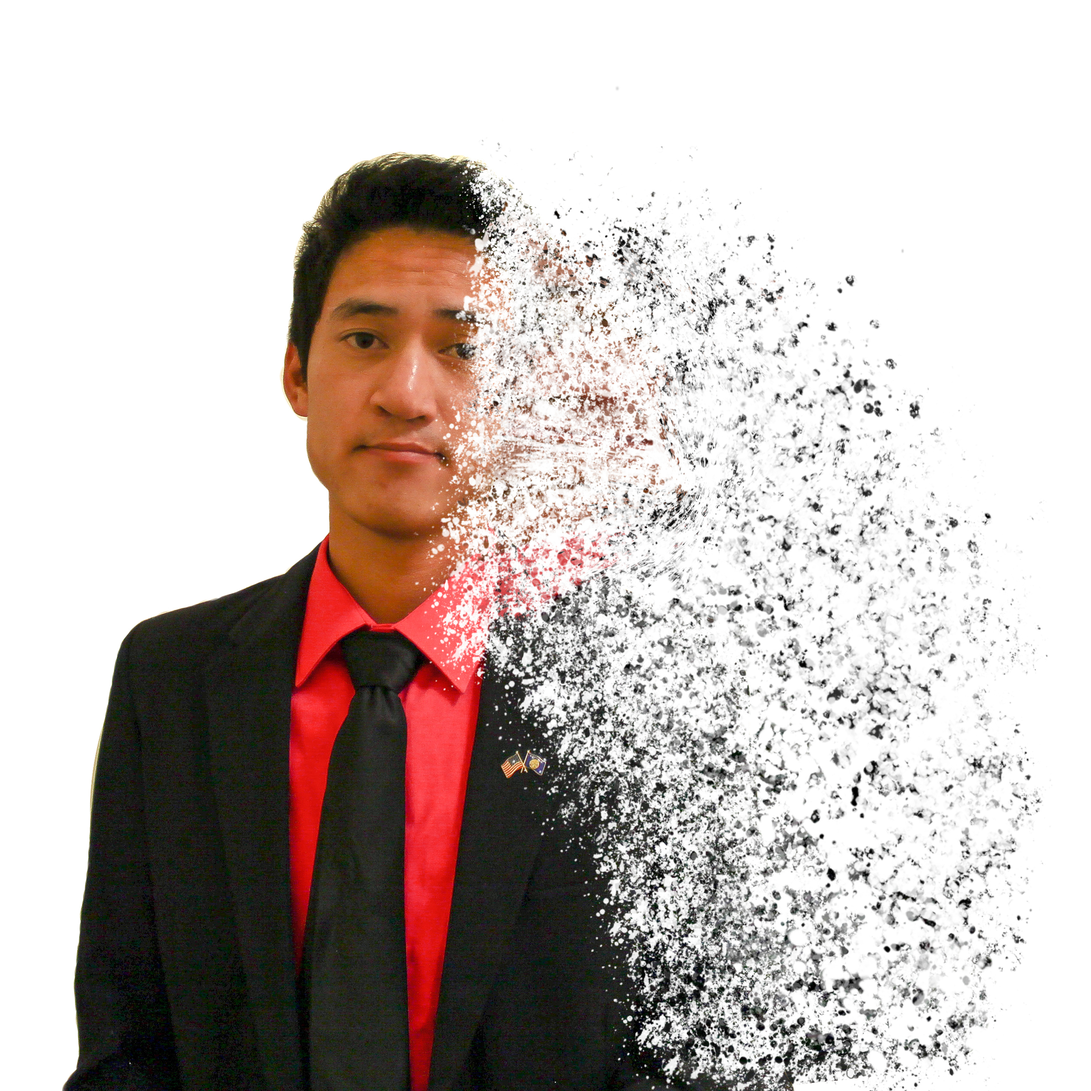
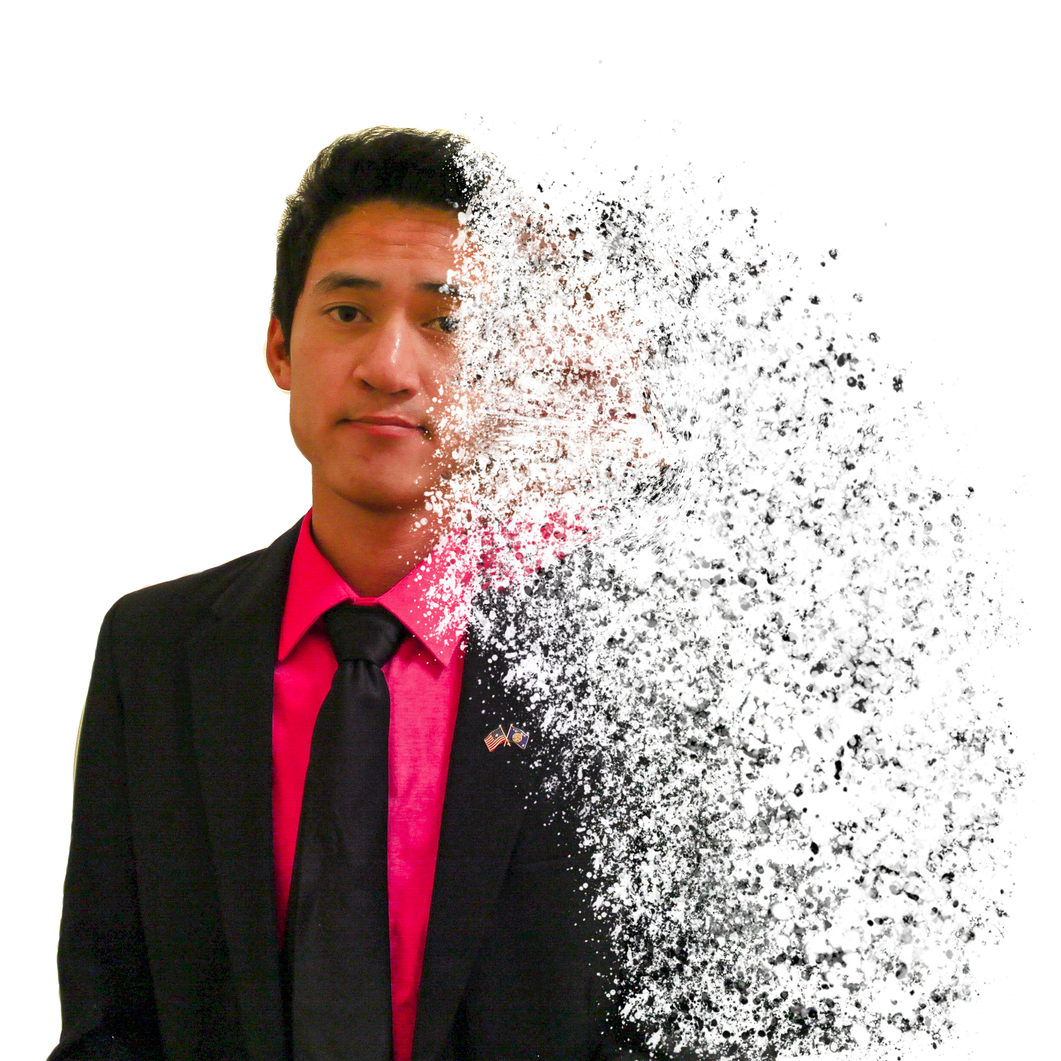
Added javascript scroll. Added new profile pic.

Changed region(s): [[0.0311, 0.0934, 0.9648, 1.0]]

diff --git a/index.html b/index.html
@@ -13,13 +13,13 @@
 
   <!-- Custom CSS -->
 
-  <link rel="stylesheet" type="text/css" href="./css/style.min.css">
-  <!-- <link rel="stylesheet" type="text/css" href="./css/Header.css">
+  <!-- <link rel="stylesheet" type="text/css" href="./css/style.min.css"> -->
+  <link rel="stylesheet" type="text/css" href="./css/Header.css">
   <link rel="stylesheet" type="text/css" href="./css/Aboutme.css">
   <link rel="stylesheet" type="text/css" href="./css/projects.css">
   <link rel="stylesheet" type="text/css" href="./css/resume.css">
   <link rel="stylesheet" type="text/css" href="./css/contactme.css">
-  <link rel="stylesheet" type="text/css" href="./css/footer.css"> -->
+  <link rel="stylesheet" type="text/css" href="./css/footer.css">
 
   <!-- Fontawesome -->
   <link rel="stylesheet" href="./libraries/fontAwesome/css/all.css">
@@ -34,7 +34,11 @@
           <h1 class="title">Hello World!</h1>
           <p class="subtitle">I am a web developer, photographer, and a lifelong student</p>
         </div>
-        <div class="arrow" style="z-index:10;"></div>
+        <!-- <div style="position: absolute; left: 50%; bottom: 5%"> -->
+          <!-- <span id="learnMore">Learn More</span> -->
+          <a href="#aboutMe" class="arrow" style="z-index:10;"></a>
+        <!-- </div> -->
+
       </div>
     </header>
 
@@ -50,7 +54,7 @@
               <hr class="hr-short">
               <p style="text-indent: 2.5rem;">Detail-oriented Full-Stack Developer with broad experiences. As a recent high-school graduate, I have become a proficient developer after attending a Full-Stack Web Development Coding Bootcamp at Northwestern in Evanston, Illinois (2017-2018). I am currently attending University of Idaho to further my knowledge in computer science/software engineering.
               </p>
-              <p style="margin-bottom: -1px;">"Don’t worry if it doesn’t work right. If everything did, you’d be out of a job." <p class="line-height: 1px;"> - Software engineering mother</p></p>
+              <p style="margin-bottom: -1px;">"Don’t worry if it doesn’t work right. If everything did, you’d be out of a job." <p class="line-height: 1px;"> -Mother's Law of Software Engineering</p></p>
               <hr class="hr-short">
             </div>
           </div>
@@ -60,7 +64,7 @@
     <!-- Project section -->
     <div id="projects-section">
       <p id="portfolio-header" class="reveal">Personal Projects</p>
-      <hr>
+      <hr mb-0>
       <ul class="thumbs">
         <li>
           <a href="#project1" class="thumbnail reveal hvr-curl-top-left" style="background-image: url('./images/thumbnails/mern.jpg')">

diff --git a/Javascript/main.js b/Javascript/main.js
@@ -1,16 +1,14 @@
 $(document).ready(function() {
 
-  // Smooth scrolling using jQuery easing
-  $('a.js-scroll-trigger[href*="#"]:not([href="#"])').click(function() {
-    if (location.pathname.replace(/^\//, '') == this.pathname.replace(/^\//, '') && location.hostname == this.hostname) {
-      var target = $(this.hash);
-      target = target.length ? target : $('[name=' + this.hash.slice(1) + ']');
-      if (target.length) {
-        $('html, body').animate({
-          scrollTop: (target.offset().top - 70)
-        }, 1000, "easeInOutExpo");
-        return false;
-      }
+  $(".arrow").on('click', function(event) {
+    if (this.hash !== "") {
+      event.preventDefault();
+      var hash = this.hash;
+      $('html, body').animate({
+        scrollTop: $(hash).offset().top
+      }, 800, function(){
+        window.location.hash = hash;
+      });
     }
   });
   // Crossfade

diff --git a/css/Header.css b/css/Header.css
@@ -34,10 +34,19 @@ body, html {
   font-style: normal;
   color: rgb(255, 255, 255);
 }
+/* #learnMore {
+  position: absolute;
+  width: 100px;
+  top: 1%;
+  left: 50%;
+  z-index: 10;
+  color: whitesmoke;
+} */
 .arrow,
 .arrow:before {
   position: absolute;
   left: 50%;
+  bottom: 0;
 }
 .arrow {
   width: 40px;
@@ -73,7 +82,6 @@ body, html {
     transform: translate(-10px, -10px);
   }
 }
-
 @media (min-width: 400px) {
   .header-text {
     width: 100%;

diff --git a/css/projects.css b/css/projects.css
@@ -10,7 +10,6 @@
 #projects-section > hr {
   border-color: #64a19d;
   border-width: 3px;
-  padding-bottom: 2.5rem;
 }
 h1 {
   margin-bottom: 0px;

diff --git a/css/Aboutme.css b/css/Aboutme.css
@@ -5,7 +5,8 @@
 }
 #aboutMe {
   background: #46474a;
-  height: 100vh;
+  height: auto;
+  padding: 5rem 0;
 }
 .hr-short {
   border-width: 3px;
